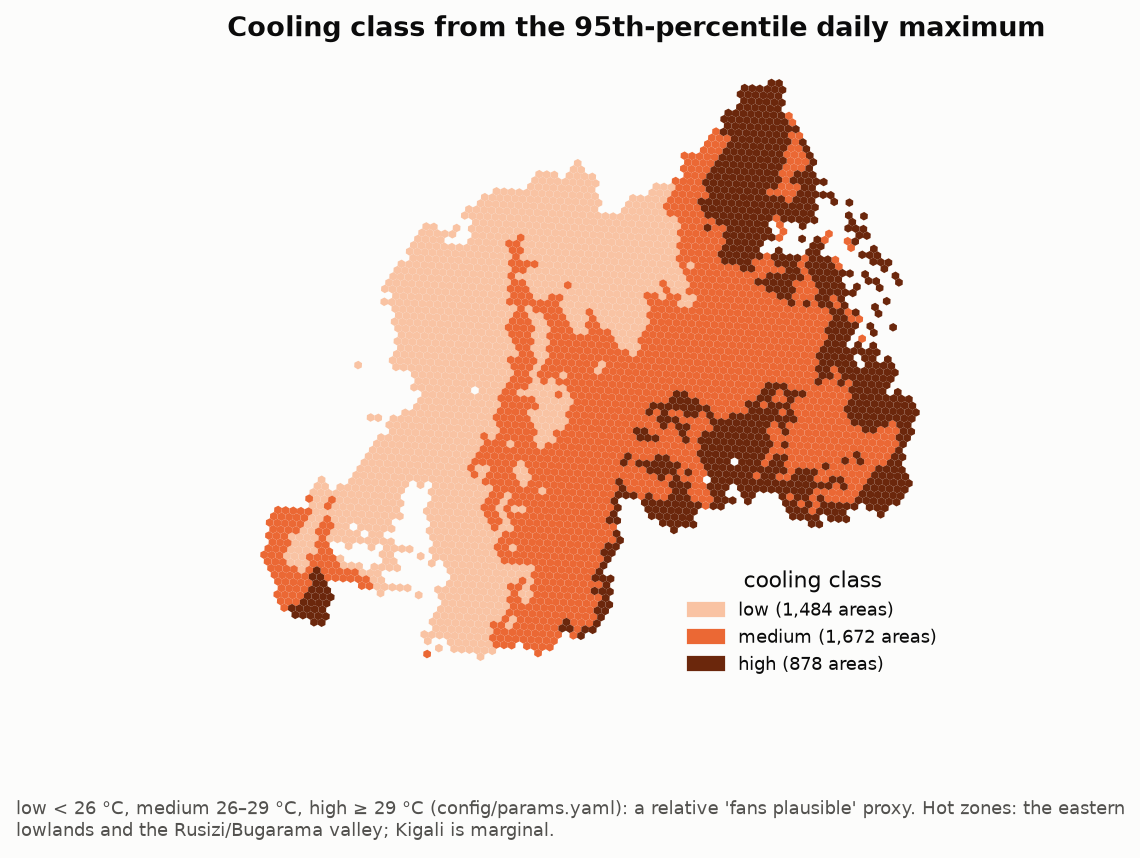
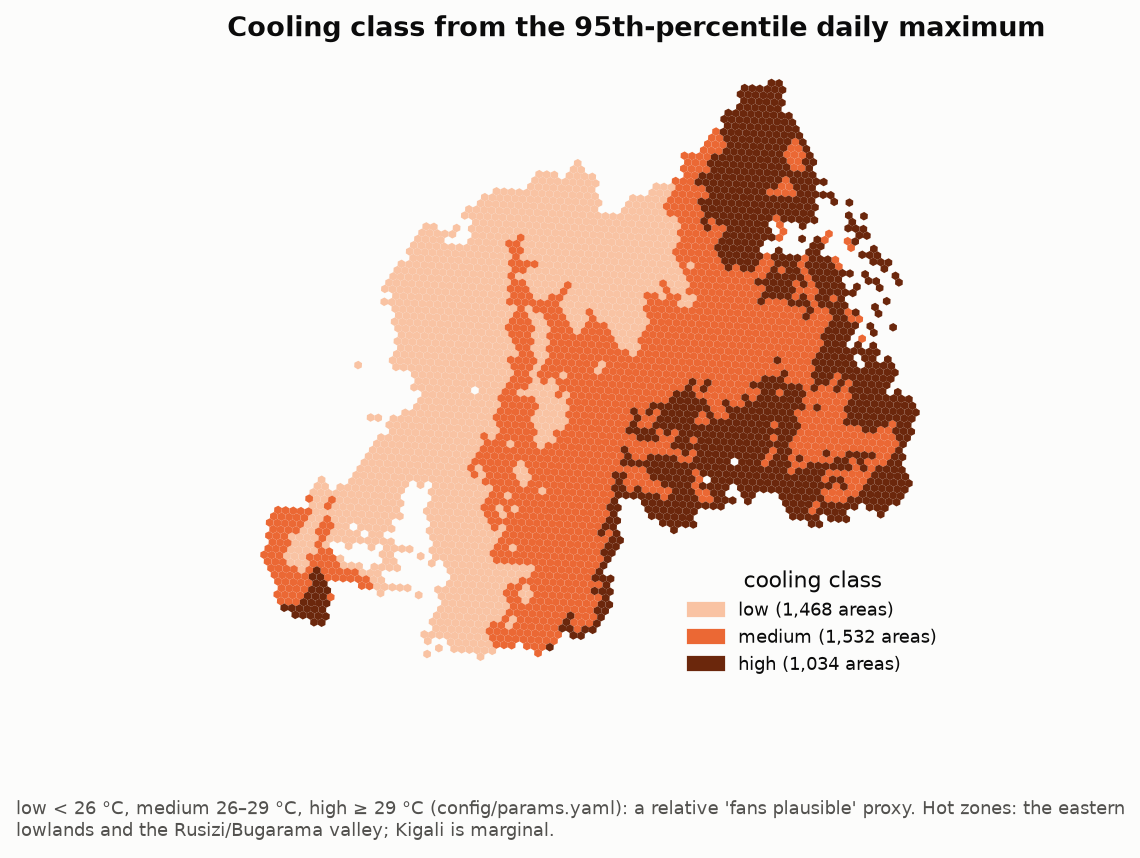
feat(climate): rebuild climate_h3 from Copernicus CDS ERA5-Land (2020-2025)
Temperature, dewpoint, solar radiation and precipitation now come from the CDS hourly files
(Copernicus licence). Adds de-accumulation, short-gap filling, relative humidity (Magnus),
annual and monthly rainfall and monthly temperature. GHI moves from NASA POWER to ERA5-Land.
Open-Meteo stays available with --source openmeteo. Manifest records the first two
1991-2020 baseline files.

diff --git a/src/rtl/climate/build.py b/src/rtl/climate/build.py
@@ -1,14 +1,21 @@
 """A3: build data/interim/climate_h3.parquet (one row per H3 res-7 cell that contains a building).
 
+Two inputs (`--source`): `cds` (default) reads ERA5-Land hourly netCDF straight from the Copernicus Climate Data
+Store (2 m temperature, dewpoint, solar radiation, precipitation; local days 2020-01-01 .. 2025-12-31, December 2019
+supplying the UTC lead-in); `openmeteo` reads the earlier Open-Meteo copy of the same ERA5-Land temperature
+(2019-2024). The CDS path also writes humidity, rainfall, ERA5-Land solar radiation and monthly climatology.
+
 Steps
-  1. load the raw ERA5-Land grid (Open-Meteo, UTC) into arrays (node, hour) + each node's model elevation
-  2. shift to local time (CAT = UTC+2) and cut into whole local days 2019-01-01 .. 2024-12-31
+  1. load the raw ERA5-Land grid (UTC) into arrays (node, hour) + each node's elevation; CDS solar radiation and
+     precipitation are accumulated from 00 UTC, so they are de-accumulated to hourly values first
+  2. shift to local time (CAT = UTC+2) and cut into whole local days
   3. estimate the lapse rate gamma by regressing node mean temperature on node elevation
   4. target cells = res-7 parents of every building's h3_r9; cell elevation = mean of the 30 m DEM over the cell
   5. per cell: bilinear-interpolate the daily mean / daily max / typical-day series and the grid elevation
      to the cell centroid, add gamma * (DEM elevation - interpolated grid elevation), *then* compute
      degree-days and p95 (thresholds are non-linear, so the correction must come before them)
-  6. GHI: multi-year mean of NASA POWER daily ALLSKY_SFC_SW_DWN, bilinear from its 1 deg grid (no correction)
+  6. GHI: CDS: ERA5-Land ssrd (0.1 deg); Open-Meteo: NASA POWER daily ALLSKY_SFC_SW_DWN (1 deg). Humidity,
+     rainfall and GHI are interpolated without an elevation correction
   7. write, plus diagnostics (lapse rate, NASA POWER cross-check, town sanity checks) and quick-look maps
 """
 
@@ -34,14 +41,15 @@ from rtl.manifest import read_manifest
 from rtl.schemas import climate_h3
 from rtl.settings import INTERIM_DIR, REPO_ROOT, REPORTS_DIR
 
-FIRST_DAY, LAST_DAY = "2019-01-01", "2024-12-31"
-YEARS = "2019-2024"
+PERIODS = {"cds": ("2020-01-01", "2025-12-31", "2020-2025"), "openmeteo": ("2019-01-01", "2024-12-31", "2019-2024")}
 DEM = INTERIM_DIR / "dem_rwa_30m.tif"
 BUILDINGS = INTERIM_DIR / "buildings_base.parquet"
 OUT = INTERIM_DIR / "climate_h3.parquet"
 DIAG = INTERIM_DIR / "climate_h3_diagnostics.json"
 FIG_DIR = REPORTS_DIR / "figures"
 HOURLY = [f"t2m_h{h:02d}_c" for h in range(24)]
+MONTHLY_T = [f"t2m_m{m:02d}_c" for m in range(1, 13)]
+MONTHLY_P = [f"precip_m{m:02d}_mm" for m in range(1, 13)]
 
 
 def raw_files(source_id: str, pattern: str) -> list[Path]:
@@ -69,6 +77,75 @@ def load_grid() -> dict:
         raise ValueError(f"grid incomplete: {int(wide.isna().any(axis=1).sum())} nodes with missing hours")
     elev = df.groupby(["req_lat", "req_lon"]).elevation_m.first().reindex(full).to_numpy()
     return {"lat": lats, "lon": lons, "t": wide.to_numpy(np.float32), "times": times, "elev": elev}
+
+
+def node_elevation(lat: np.ndarray, lon: np.ndarray) -> np.ndarray:
+    """ERA5-Land node elevations (m), row-major over (lat, lon), as recorded with the Open-Meteo copy of the same
+    0.1 deg grid, so both sources share one lapse-rate method."""
+    om = pd.concat([pd.read_parquet(p, columns=["req_lat", "req_lon", "elevation_m"])
+                    for p in raw_files("openmeteo", "t2m_era5land_batch_")])
+    om = om.assign(req_lat=om.req_lat.round(1), req_lon=om.req_lon.round(1)).drop_duplicates(["req_lat", "req_lon"])
+    key = pd.MultiIndex.from_product([np.round(lat, 1), np.round(lon, 1)], names=["req_lat", "req_lon"])
+    elev = om.set_index(["req_lat", "req_lon"]).elevation_m.reindex(key).to_numpy(float)
+    if np.isnan(elev).any():
+        raise ValueError(f"{int(np.isnan(elev).sum())} CDS nodes have no recorded elevation")
+    return elev
+
+
+def fill_gaps(acc: np.ndarray, max_gap: int = 3) -> tuple[np.ndarray, int]:
+    """Linearly interpolate short NaN runs (<= max_gap hours) along time, per node. The CDS files have a few
+    missing ssrd values (mostly 04-05 UTC); one gap would otherwise void a whole local day."""
+    df = pd.DataFrame(acc.T)
+    nan = df.isna()
+    run = nan.ne(nan.shift()).cumsum()  # ids of consecutive NaN / non-NaN runs, per column
+    out = df.interpolate(limit_area="inside")
+    for c in df.columns:
+        lengths = nan[c].groupby(run[c]).transform("size")
+        out.loc[nan[c] & (lengths > max_gap), c] = np.nan  # leave long gaps alone
+    out = out.to_numpy(acc.dtype).T
+    return out, int(np.isnan(acc).sum() - np.isnan(out).sum())
+
+
+def deaccumulate(acc: np.ndarray, times: pd.DatetimeIndex) -> np.ndarray:
+    """ERA5-Land accumulations (reset so that 01 UTC holds the first hour) -> per-hour amounts, (node, hour).
+    The first time step has no predecessor and becomes NaN; tiny negative round-off is clipped to 0."""
+    out = np.full_like(acc, np.nan)
+    out[:, 1:] = acc[:, 1:] - acc[:, :-1]
+    first = times.hour.to_numpy() == 1
+    out[:, first] = acc[:, first]
+    return np.where(np.isnan(out), out, np.clip(out, 0, None))
+
+
+def relative_humidity(t_c: np.ndarray, td_c: np.ndarray) -> np.ndarray:
+    """Relative humidity (%) from temperature and dewpoint, Magnus formula (Alduchov & Eskridge 1996 constants)."""
+    es = lambda x: np.exp(17.625 * x / (243.04 + x))  # noqa: E731
+    return np.clip(100 * es(td_c) / es(t_c), 0, 100)
+
+
+def load_grid_cds() -> dict:
+    """ERA5-Land from the CDS hourly netCDF files: the same grid dict as load_grid, plus dewpoint (C), solar
+    radiation (kWh/m2 per hour) and precipitation (mm per hour)."""
+    import xarray as xr
+
+    parts: dict[str, list] = {v: [] for v in ("t2m", "d2m", "ssrd", "tp")}
+    stamps = []
+    for path in raw_files("era5_land_cds", "era5land_hourly_"):
+        with xr.open_dataset(path) as ds:
+            ds = ds.sortby("latitude").sortby("longitude")
+            lat, lon, n = ds.latitude.values, ds.longitude.values, ds.sizes["valid_time"]
+            for v in parts:
+                parts[v].append(ds[v].values.reshape(n, -1).T.astype(np.float32))
+            stamps.append(ds.valid_time.values)
+    times = pd.DatetimeIndex(np.concatenate(stamps)).tz_localize("UTC")
+    if not (np.diff(times.asi8) == 3_600_000_000_000).all():
+        raise ValueError("CDS hourly files have gaps or overlaps")
+    arr = {v: np.concatenate(x, axis=1) for v, x in parts.items()}
+    filled = {}
+    for v in arr:
+        arr[v], filled[v] = fill_gaps(arr[v])
+    return {"lat": lat, "lon": lon, "times": times, "elev": node_elevation(lat, lon), "filled_hours": filled,
+            "t": arr["t2m"] - 273.15, "td": arr["d2m"] - 273.15,
+            "ssrd_kwh": deaccumulate(arr["ssrd"], times) / 3.6e6, "tp_mm": deaccumulate(arr["tp"], times) * 1000}
 
 
 # ------------------------------------------------------------------------------------------- cells
@@ -112,9 +189,10 @@ def load_ghi() -> tuple[np.ndarray, np.ndarray, np.ndarray]:
 
 
 # ------------------------------------------------------------------------------------------- main
-def build(buildings: Path, out: Path) -> dict:
-    g = load_grid()
-    t_days, days = to_local_days(g["t"], g["times"], FIRST_DAY, LAST_DAY)
+def build(buildings: Path, out: Path, source: str = "cds") -> dict:
+    g = load_grid_cds() if source == "cds" else load_grid()
+    first_day, last_day, years = PERIODS[source]
+    t_days, days = to_local_days(g["t"], g["times"], first_day, last_day)
     node = summarise(t_days, days)
     gamma, intercept, r2 = fit_lapse_rate(g["elev"], node["t2m_mean_c"])
     gamma_hour = [fit_lapse_rate(g["elev"], node["typical_day"][:, h])[0] * 1000 for h in range(24)]
@@ -135,6 +213,34 @@ def build(buildings: Path, out: Path) -> dict:
     typical = interpolate(node["typical_day"], idx, w) + shift[:, None]
     glat, glon, ghi_grid = load_ghi()
     gidx, gw = bilinear_weights(cells.lat.to_numpy(), cells.lon.to_numpy(), glat, glon)
+    ghi_power = interpolate(ghi_grid.ravel(), gidx, gw)
+    extra, extra_diag = {}, {}
+    if source == "cds":
+        local = lambda a: to_local_days(a, g["times"], first_day, last_day)[0]  # noqa: E731
+        months, n_years = days.month.to_numpy(), days.year.nunique()
+        rh = local(relative_humidity(g["t"], g["td"])).mean(axis=(-2, -1))
+        rain = local(g["tp_mm"]).sum(axis=-1)  # (node, day) mm
+        sun = local(g["ssrd_kwh"]).sum(axis=-1).mean(axis=-1)  # kWh/m2/day
+        ghi = interpolate(sun, idx, w)
+        extra = {"rh_mean_pct": interpolate(rh, idx, w),
+                 "precip_mm_per_year": interpolate(rain.sum(axis=-1) / n_years, idx, w),
+                 **{c: daily_mean[:, months == m].mean(axis=1) for m, c in enumerate(MONTHLY_T, start=1)},
+                 **{c: interpolate(rain[:, months == m].sum(axis=-1) / n_years, idx, w)
+                    for m, c in enumerate(MONTHLY_P, start=1)}}
+        extra_diag = {"cds_hours_gap_filled": g["filled_hours"],
+                      "ghi_era5land_vs_nasa_power_cell_mean": [round(float(ghi.mean()), 3),
+                                                              round(float(ghi_power.mean()), 3)]}
+        source_text = (f"ERA5-Land hourly 0.1deg from the Copernicus Climate Data Store (t2m, d2m, ssrd, tp), local "
+                       f"days {first_day}..{last_day}; t2m bilinear to cell centroid + lapse rate "
+                       f"{gamma * 1000:.2f} K/km (fit on grid) to Copernicus GLO-30 cell-mean elevation; humidity "
+                       f"(Magnus), rainfall and GHI (de-accumulated ssrd) bilinear, no elevation correction; local "
+                       f"time UTC+{CAT_OFFSET_H}")
+    else:
+        ghi = ghi_power
+        source_text = (f"t2m: ERA5-Land hourly 0.1deg via Open-Meteo archive API (raw grid, no API downscaling), "
+                       f"bilinear to cell centroid + lapse rate {gamma * 1000:.2f} K/km (fit on grid) to Copernicus "
+                       f"GLO-30 cell-mean elevation; local time UTC+{CAT_OFFSET_H}; "
+                       "GHI: NASA POWER daily ALLSKY_SFC_SW_DWN (CERES SYN1deg 1deg), bilinear")
 
     df = pd.DataFrame({
         "h3_r7": cells.h3_r7,
@@ -144,13 +250,11 @@ def build(buildings: Path, out: Path) -> dict:
         "cdd18_per_year": degree_days_per_year(daily_mean, days, 18.0),
         "cdd22_per_year": degree_days_per_year(daily_mean, days, 22.0),
         "cdd24_per_year": degree_days_per_year(daily_mean, days, 24.0),
-        "ghi_kwh_m2_day": interpolate(ghi_grid.ravel(), gidx, gw),
-        "years": YEARS,
-        "source": (f"t2m: ERA5-Land hourly 0.1deg via Open-Meteo archive API (raw grid, no API downscaling), "
-                   f"bilinear to cell centroid + lapse rate {gamma * 1000:.2f} K/km (fit on grid) to Copernicus "
-                   f"GLO-30 cell-mean elevation; local time UTC+{CAT_OFFSET_H}; "
-                   "GHI: NASA POWER daily ALLSKY_SFC_SW_DWN (CERES SYN1deg 1deg), bilinear"),
+        "ghi_kwh_m2_day": ghi,
+        "years": years,
+        "source": source_text,
         **{c: typical[:, h] for h, c in enumerate(HOURLY)},
+        **extra,
     })
     from rtl.derive import cooling_class  # thresholds live in config/params.yaml
     df["cooling_class"] = cooling_class(df["tmax_p95_c"])
@@ -168,6 +272,7 @@ def build(buildings: Path, out: Path) -> dict:
                         "p95": round(float(np.percentile(np.abs(shift), 95)), 2)},
         "towns": town_checks(df, cells, g, t_days, gamma),
         "building_weighted": building_weighted(df, cells.n_buildings.to_numpy()),
+        "source": source, "years": years, **extra_diag,
     }
     return diag | {"_df": df, "_gdf": gdf}
 
@@ -226,13 +331,14 @@ def main() -> None:
     ap = argparse.ArgumentParser(description=__doc__.splitlines()[0])
     ap.add_argument("--buildings", type=Path, default=BUILDINGS)
     ap.add_argument("--out", type=Path, default=OUT)
+    ap.add_argument("--source", choices=sorted(PERIODS), default="cds", help="ERA5-Land copy to read (default: cds)")
     args = ap.parse_args()
     national = args.out == OUT
     if national:
         with heavy_job("A3-climate-h3"):  # waits for the national buildings rewrite to release the lock
-            diag = build(args.buildings, args.out)
+            diag = build(args.buildings, args.out, args.source)
     else:
-        diag = build(args.buildings, args.out)
+        diag = build(args.buildings, args.out, args.source)
     df = diag.pop("_df")
     diag.pop("_gdf")  # cell polygons; maps are drawn by notebooks/02_report_figures.py
     if national:

diff --git a/tests/test_climate.py b/tests/test_climate.py
@@ -142,3 +142,29 @@ def test_table_matches_contract_and_is_internally_consistent(table):
     assert (table.cdd18_per_year >= table.cdd24_per_year).all()
     # colder with elevation across cells
     assert np.corrcoef(table.elevation_m, table.t2m_mean_c)[0, 1] < -0.8
+
+
+def test_deaccumulate_resets_at_01_utc():
+    import pandas as pd
+
+    from rtl.climate.build import deaccumulate
+
+    times = pd.date_range("2020-01-01 00:00", periods=5, freq="h", tz="UTC")
+    acc = np.array([[24.0, 1.0, 3.0, 6.0, 10.0]])  # 00 UTC holds the previous day's total
+    out = deaccumulate(acc, times)
+    assert np.isnan(out[0, 0]) and out[0, 1:].tolist() == [1.0, 2.0, 3.0, 4.0]
+
+
+def test_relative_humidity_bounds():
+    from rtl.climate.build import relative_humidity
+
+    rh = relative_humidity(np.array([20.0, 20.0, 30.0]), np.array([20.0, 10.0, 15.0]))
+    assert rh[0] == pytest.approx(100) and 50 < rh[1] < 55 and 38 < rh[2] < 42
+
+
+def test_fill_gaps_only_inside_short_runs():
+    from rtl.climate.build import fill_gaps
+
+    a = np.array([[0.0, np.nan, 2.0, np.nan, np.nan, np.nan, np.nan, 7.0, np.nan]])
+    out, n = fill_gaps(a, max_gap=3)
+    assert out[0, 1] == 1.0 and np.isnan(out[0, 3:7]).all() and np.isnan(out[0, 8]) and n == 1

diff --git a/src/rtl/schemas.py b/src/rtl/schemas.py
@@ -151,6 +151,11 @@ climate_h3 = pa.DataFrameSchema(
         "years": pa.Column(str),
         "source": pa.Column(str),
         **_hourly,
+        # CDS source only (optional so the Open-Meteo path still validates)
+        "rh_mean_pct": pa.Column(float, pa.Check.in_range(0, 100), required=False),
+        "precip_mm_per_year": pa.Column(float, pa.Check.in_range(0, 5000), required=False),
+        **{f"t2m_m{m:02d}_c": pa.Column(float, pa.Check.in_range(-5, 40), required=False) for m in range(1, 13)},
+        **{f"precip_m{m:02d}_mm": pa.Column(float, pa.Check.in_range(0, 1000), required=False) for m in range(1, 13)},
     },
     strict=True,
     name="climate_h3",

diff --git a/docs/datasheet.md b/docs/datasheet.md
@@ -17,7 +17,7 @@ One row per building footprint, keyed by `bldg_id` (`RWA-` + 16 hex digits, a ha
 | `buildings_base` | 6,434,247 | footprint (EPSG:4326), source (google / microsoft / osm), detector confidence, area, perimeter, compactness, orientation, vertices, centroid, H3 r9, QA flags |
 | `building_height` | 6,434,247 | height (2023), estimated floors, floor area, first-seen year (experimental), yearly presence 2016–2023 |
 | `building_context` | 6,434,247 | admin area down to village; OSM/Overture/registry tags; distance to roads (any and major) and power lines; nearby tagged-place counts (50/100/250 m); GHSL settlement class and non-residential share; population density; relative wealth index; elevation; H3 r7 |
-| `climate_h3` | 4,034 H3 r7 cells | mean temperature, 95th-percentile daily max, cooling degree-days (18/22/24 °C), cooling class, 24-hour typical day, solar irradiance |
+| `climate_h3` | 4,034 H3 r7 cells | mean temperature, 95th-percentile daily max, cooling degree-days (18/22/24 °C), cooling class, 24-hour typical day, monthly temperature and rainfall, mean relative humidity, annual rainfall, solar irradiance (2020–2025) |
 | `labels` | 48,556 | building-use labels: class, probabilities, confidence, a one-line justification, model and prompt version. Covers 44,156 deep-dive buildings plus the 5,878-building pilot sample, with several model and prompt configurations on the 400 gold buildings |
 | `gold_labels.csv` | 174 (growing to 400 + 50 repeats) | human building-use labels with confidence, note and an imagery flag |
 | `evidence` | 3,076 | appliance and usage parameters from 18 reports, each with document, page, verbatim quote and a verification flag |
@@ -32,14 +32,14 @@ One row per building footprint, keyed by `bldg_id` (`RWA-` + 16 hex digits, a ha
 - Footprints: VIDA's merge of Google Open Buildings V3, Microsoft and OSM (Source Cooperative, 2024).
 - Heights and growth: Google Open Buildings 2.5D Temporal, read at 2 m (height) and 4 m (presence) from the files' built-in overviews.
 - Context: OSM (Geofabrik), Overture places, geoBoundaries, healthsites/OSM facilities, Gridfinder, GHSL BUILT-C, WorldPop R2025A, Meta Relative Wealth Index, Copernicus DEM GLO-30.
-- Climate: ERA5-Land hourly 2019–2024 via Open-Meteo, plus NASA POWER for checks. A re-download from Copernicus CDS (2019–2025 hourly plus a 1991–2020 daily baseline) is in progress, to switch to the Copernicus licence.
+- Climate: ERA5-Land hourly 2019–2025 from the Copernicus Climate Data Store (2m temperature, dewpoint, solar radiation, precipitation, wind; the table uses 2020–2025, with December 2019 as the UTC lead-in), plus NASA POWER for checks. A 1991–2020 daily baseline is still queued at CDS. The earlier Open-Meteo build (2019–2024) can be rebuilt with `--source openmeteo`.
 - Every raw file is listed in `data/manifest.json` with its URL, sha256, size, licence and retrieval time.
 
 ## Preprocessing and labelling
 - **Footprints:** made valid, metrics computed in UTM 35S. One R-tree spatial join flags cross-source overlaps (none found) and nested same-source detections.
 - **Floors:** height cut-points fitted on OSM `building:levels` (even ids) and tested on odd ids: 1 floor below 6.0 m, 2 floors below 8.5 m, then +1 per 3 m. Held-out exact match is 83% for 1 storey, 33% for 2 and 10% for 3+.
 - **First-seen year:** first year with presence ≥ 0.5 that stays ≥ 0.5. Re-tunable from the stored presence columns (`config/params.yaml`, `pixi run derive`).
-- **Climate:** bilinear interpolation of the 0.1° grid plus a lapse-rate correction (−6.05 K/km, fitted) to each cell's mean DEM elevation. Local time is UTC+2.
+- **Climate:** bilinear interpolation of the 0.1° grid plus a lapse-rate correction (−6.16 K/km, fitted) to each cell's mean DEM elevation. Local time is UTC+2. Accumulated radiation and precipitation are de-accumulated (reset at 01 UTC); gaps of up to 3 hours are interpolated, longer ones stay missing. Relative humidity uses the Magnus formula on temperature and dewpoint.
 - **Building use:** Claude (Haiku 4.5, prompt v2) labels a *context card* built only from open vector data. No imagery is involved: footprint, height and floors, size against neighbours, land use, road frontage, nearby tags and places, density, settlement class, wealth and distances.
   - Measured against human gold labels, agreement is ~39–43%, and each answer cites ~5.4 context cues.
   - The human labels were mostly made with imagery, so they hold information the vector cards lack. The labels are probabilistic; use the class probabilities, not just the top class.
@@ -62,9 +62,9 @@ One row per building footprint, keyed by `bldg_id` (`RWA-` + 16 hex digits, a ha
 2. `first_seen_year` has artefacts (jumps in 2019 and 2023). Treat it as experimental.
 3. Direct building-use tags are rare (~14k informative tags among 6.4M buildings), and open vector data rarely shows use. Building-use labels are therefore uncertain, and residential and ancillary dominate.
 4. Microsoft footprints omit structures under ~15 m², so small ancillary buildings are under-counted where Microsoft is the source.
-5. Cooling demand is marginal in most of the country, including Kigali. Sustained heat is in the eastern lowlands (11.6% of buildings in areas above 100 CDD22 a year; provisional, as NASA POWER shows less there) and the Rusizi/Bugarama valley (confirmed). The cooling class is a relative proxy.
+5. Cooling demand is marginal in most of the country, including Kigali. Sustained heat is in the eastern lowlands (12.9% of buildings in areas above 100 CDD22 a year; provisional, as NASA POWER shows less there) and the Rusizi/Bugarama valley (confirmed). The cooling class is a relative proxy.
 6. Labels cover the three deep-dive sectors (Nyamirambo fully, Nasho fully, Muhoza partly) and a national sample, not the whole country.
-7. Appliance profiles are drafts. Bars, guesthouses, offices, churches and stores rest on assumptions; the health
+7. Appliance profiles are signed off by the owner (2026-10-12), but bars, guesthouses, offices, churches and stores rest on assumptions; the health
    profile is built from health centres and overstates health posts; all profiles assume a grid connection.
 
 ## Uses
@@ -74,7 +74,7 @@ One row per building footprint, keyed by `bldg_id` (`RWA-` + 16 hex digits, a ha
 ## Distribution and licences
 - **Data:** derived building data inherits **ODbL-1.0** (OSM / Microsoft / Google Open Buildings).
 - **Meta Relative Wealth Index (`rwi`):** CC-BY-NC-4.0, so release it separately or flag it for non-commercial use.
-- **Climate:** currently from Open-Meteo's free tier (non-commercial). It switches to the Copernicus licence once the CDS download is integrated.
+- **Climate:** Copernicus ERA5-Land, free to use including commercially, with attribution to the Copernicus Climate Change Service. ERA5-Land rainfall runs wet over the mountains; treat it as indicative.
 - **Restricted microdata** (DHS, World Bank MTF, NISR) is never redistributed.
 
 ## Maintenance

diff --git a/docs/data_sources.md b/docs/data_sources.md
@@ -21,7 +21,7 @@ Role: **feature** = model input; **weak_label** = labelling evidence; **validati
 | `gridfinder` | Gridfinder predicted MV grid lines (Arderne et al. 2020), global grid.gpkg v1.1.1 | A2 | feature | open | CC-BY-4.0 | verified | 1 (725 MB) |
 | `health_facilities` | Health facilities (healthsites.io export on HDX, dataset rwanda-healthsites; derived from OSM) | A2 | weak_label | open | ODbL-1.0 | verified | 1 (1 MB) |
 | `era5_arco` | ERA5 hourly 2 m temperature via ARCO-ERA5 public Zarr (0.25 deg) | A3 | feature | open | to_verify | to_verify | - |
-| `era5_land_cds` | ERA5-Land from Copernicus CDS - hourly 2019-2025 (t2m, d2m, ssrd, tp, u10, v10) + optional daily-statistics baseline 1991-2020 | A3 | feature | login | Copernicus licence (free incl. commercial use, attribution to Copernicus Climate Change Service) | to_verify | 74 (295 MB) |
+| `era5_land_cds` | ERA5-Land from Copernicus CDS - hourly 2019-2025 (t2m, d2m, ssrd, tp, u10, v10) + optional daily-statistics baseline 1991-2020 | A3 | feature | login | Copernicus licence (free incl. commercial use, attribution to Copernicus Climate Change Service) | verified | 84 (334 MB) |
 | `nasa_power` | NASA POWER hourly T2M (MERRA-2, cross-check at 4 towns) + daily GHI ALLSKY_SFC_SW_DWN (CERES SYN1deg, 1 deg) | A3 | feature | open | NASA open data (no restrictions; acknowledgement of the NASA LaRC POWER Project requested) | verified | 11 (6 MB) |
 | `openmeteo` | ERA5-Land hourly 2 m temperature (0.1 deg) via Open-Meteo Historical Weather API (no downscaling) | A3 | feature | open | CC-BY-4.0 (Open-Meteo) + Copernicus C3S licence (ERA5-Land) | verified | 33 (88 MB) |
 | `census_2022` | Rwanda 5th Population and Housing Census 2022 (households by sector), NISR | A4 | validation | open | to_verify | to_verify | - |
@@ -65,4 +65,4 @@ Role: **feature** = model input; **weak_label** = labelling evidence; **validati
 | `giz_pv_productive_use_catalogue_2016` | Photovoltaics for Productive Use Applications: A catalogue of DC-appliances | GIZ | 2016 | verified |
 | `esmap_minigrids_half_billion_2022` | Mini Grids for Half a Billion People: Market Outlook and Handbook for Decision Makers | ESMAP / World Bank | 2022 | verified |
 
-Manifest: 375 files, 4.3 GB in total.
+Manifest: 385 files, 4.4 GB in total.

diff --git a/reports/qa/climate_h3.md b/reports/qa/climate_h3.md
@@ -2,7 +2,7 @@
 **PASS**
 
 - file: `climate_h3.parquet`
-- checked: 2026-10-11 11:27 UTC
+- checked: 2026-10-12 08:57 UTC
 - rows: 4,034
 - duplicate `h3_r7`: 0
 - schema: PASS (all rows)
@@ -43,4 +43,30 @@
 | t2m_h21_c | 0.0% |
 | t2m_h22_c | 0.0% |
 | t2m_h23_c | 0.0% |
+| rh_mean_pct | 0.0% |
+| precip_mm_per_year | 0.0% |
+| t2m_m01_c | 0.0% |
+| t2m_m02_c | 0.0% |
+| t2m_m03_c | 0.0% |
+| t2m_m04_c | 0.0% |
+| t2m_m05_c | 0.0% |
+| t2m_m06_c | 0.0% |
+| t2m_m07_c | 0.0% |
+| t2m_m08_c | 0.0% |
+| t2m_m09_c | 0.0% |
+| t2m_m10_c | 0.0% |
+| t2m_m11_c | 0.0% |
+| t2m_m12_c | 0.0% |
+| precip_m01_mm | 0.0% |
+| precip_m02_mm | 0.0% |
+| precip_m03_mm | 0.0% |
+| precip_m04_mm | 0.0% |
+| precip_m05_mm | 0.0% |
+| precip_m06_mm | 0.0% |
+| precip_m07_mm | 0.0% |
+| precip_m08_mm | 0.0% |
+| precip_m09_mm | 0.0% |
+| precip_m10_mm | 0.0% |
+| precip_m11_mm | 0.0% |
+| precip_m12_mm | 0.0% |
 | cooling_class | 0.0% |
